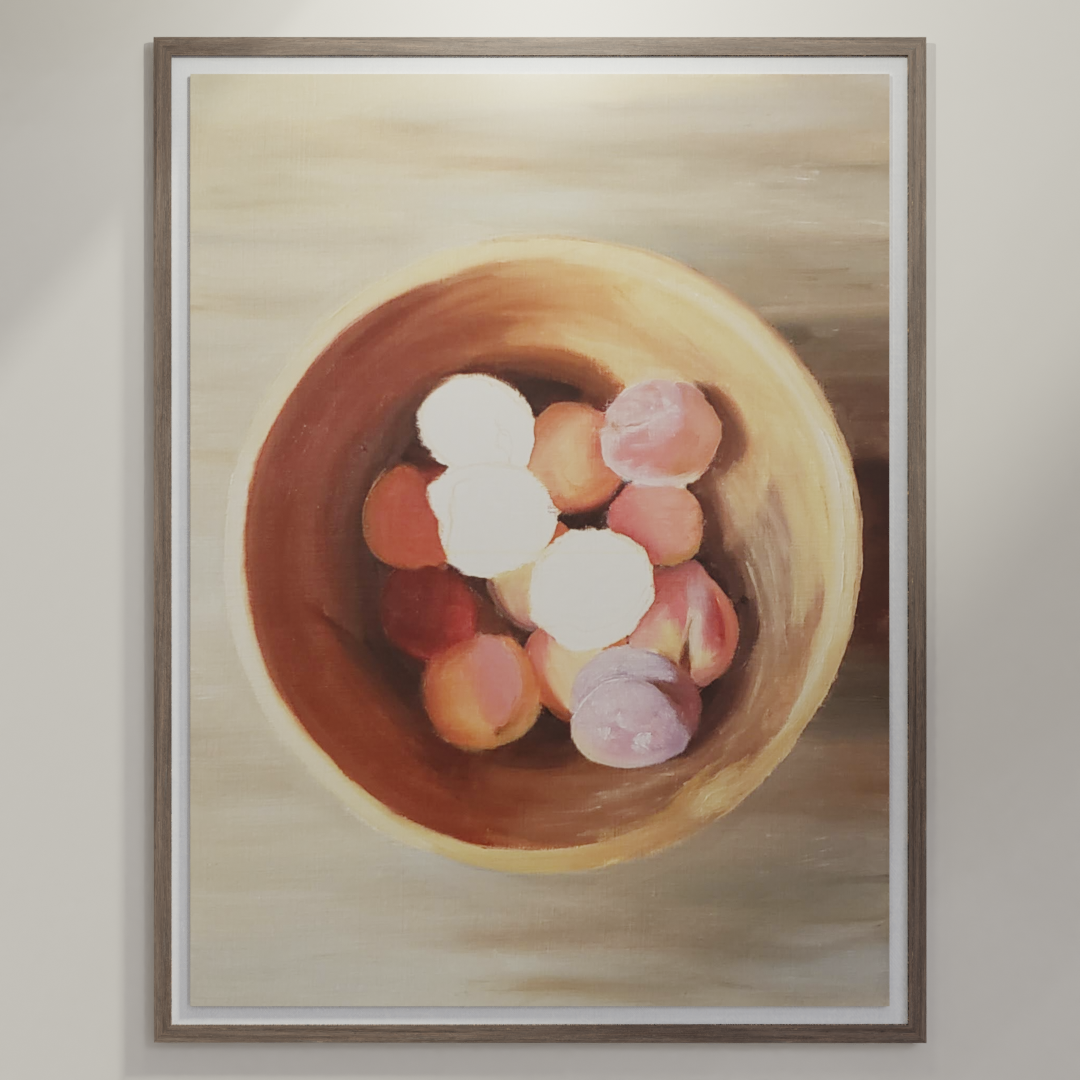
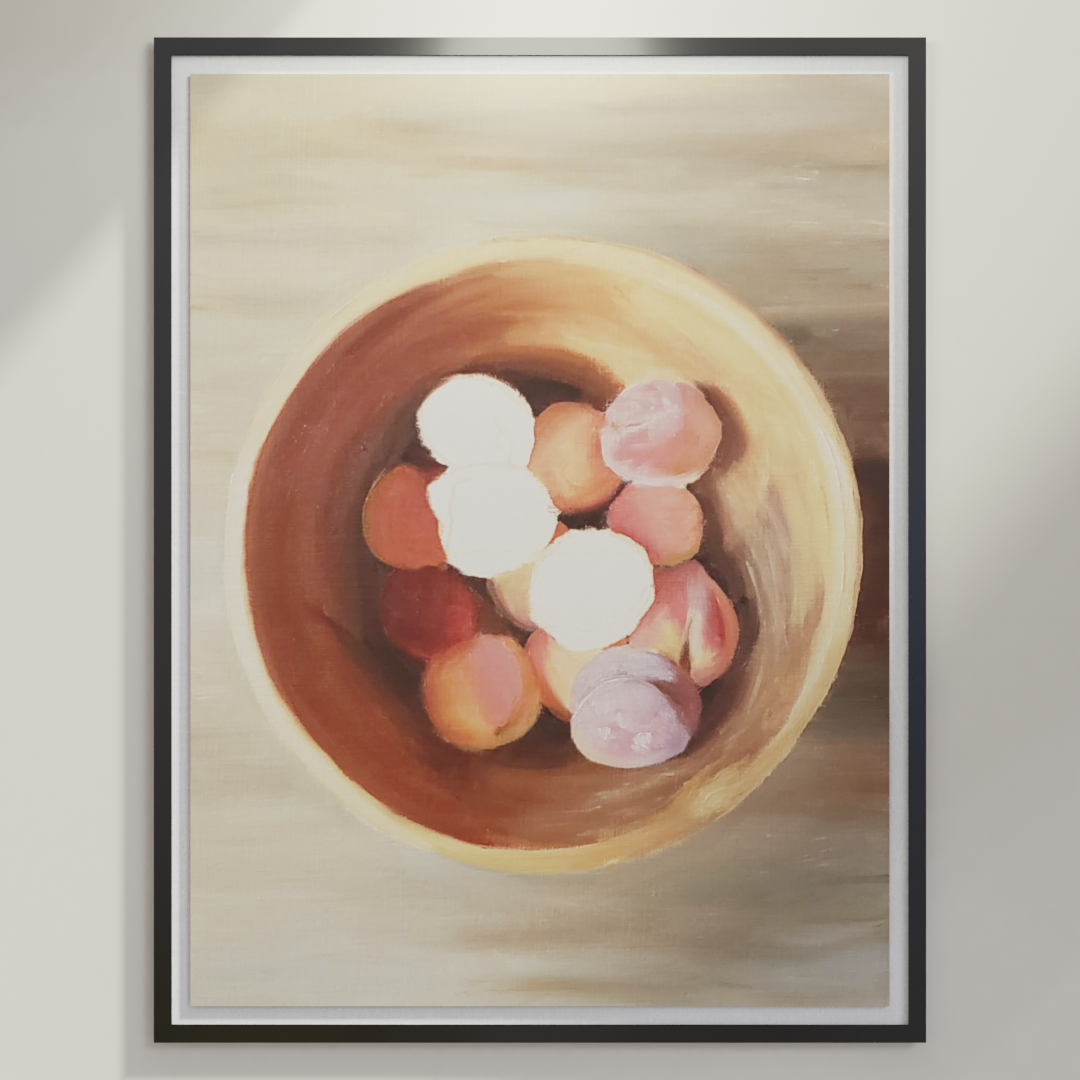
Insert frame previews to readme

Changed region(s): [[0.1222, 0.0306, 0.8556, 0.9778]]

diff --git a/README.md b/README.md
@@ -4,7 +4,7 @@
 
 > This repository is in active development. Check again in the future for future developments.
 
-**Usage:** `blender -b <filename> -P <this_script> -- <image_path> <width-inches> <height-inches> <depth-inches> <renderer>`
+**Usage:** `blender -b <filename> -P <this_script> -- <image_path> <width-inches> <height-inches> <depth-inches> <renderer> <frameType>`
 
 **Example:** `blender -b .\art-viz.blend -P render.py  -- .\garlic.jpg 18 24 1 CYCLES WoodFloatingFrame02`
 
@@ -92,20 +92,38 @@ Options are `CYCLES`, `BLENDER_EEVEE`, or `BLENDER_WORKBENCH`.
 
 The frame that will surround the piece.
 
-Current framing options are
+Current framing options are:
 
-- `WhiteFloatingFrame`
+`WhiteFloatingFrame`
 
-- `BlackFloatingframe`
+![WhiteFloatingFrame](C:\Users\blake\Documents\Blender\art-viz\assets\garlic_WhiteeFloatingFrame.png)
 
-- WoodFloatingFrame01
+`BlackFloatingframe`
 
-- WoodFloatingFrame02
+![WhiteFloatingFrame](C:\Users\blake\Documents\Blender\art-viz\assets\garlic_BlackFloatingFrame.png)
 
-- WoodFloatingFrame03
+`WoodFloatingFrame01`
 
-- WoodFloatingFrame04
+![WhiteFloatingFrame](C:\Users\blake\Documents\Blender\art-viz\assets\garlic_WoodFloatingFrame01.png)
 
-- WoodFloatingFrame05
+`WoodFloatingFrame02`
+
+![WhiteFloatingFrame](C:\Users\blake\Documents\Blender\art-viz\assets\garlic_WoodFloatingFrame02.png)
+
+`WoodFloatingFrame03`
+
+![WhiteFloatingFrame](C:\Users\blake\Documents\Blender\art-viz\assets\garlic_WoodFloatingFrame03.png)
+
+`WoodFloatingFrame04`
+
+![WhiteFloatingFrame](C:\Users\blake\Documents\Blender\art-viz\assets\garlic_WoodFloatingFrame04.png)
+
+`WoodFloatingFrame05`
+
+![WhiteFloatingFrame](C:\Users\blake\Documents\Blender\art-viz\assets\garlic_WoodFloatingFrame05.png)
 
 > :exclamation:This list will be added to in the near future for more interesting customization
+
+## Tips
+
+- If the result is too small, double the size values (height/width/depth) to make the art appear larger in the final image
